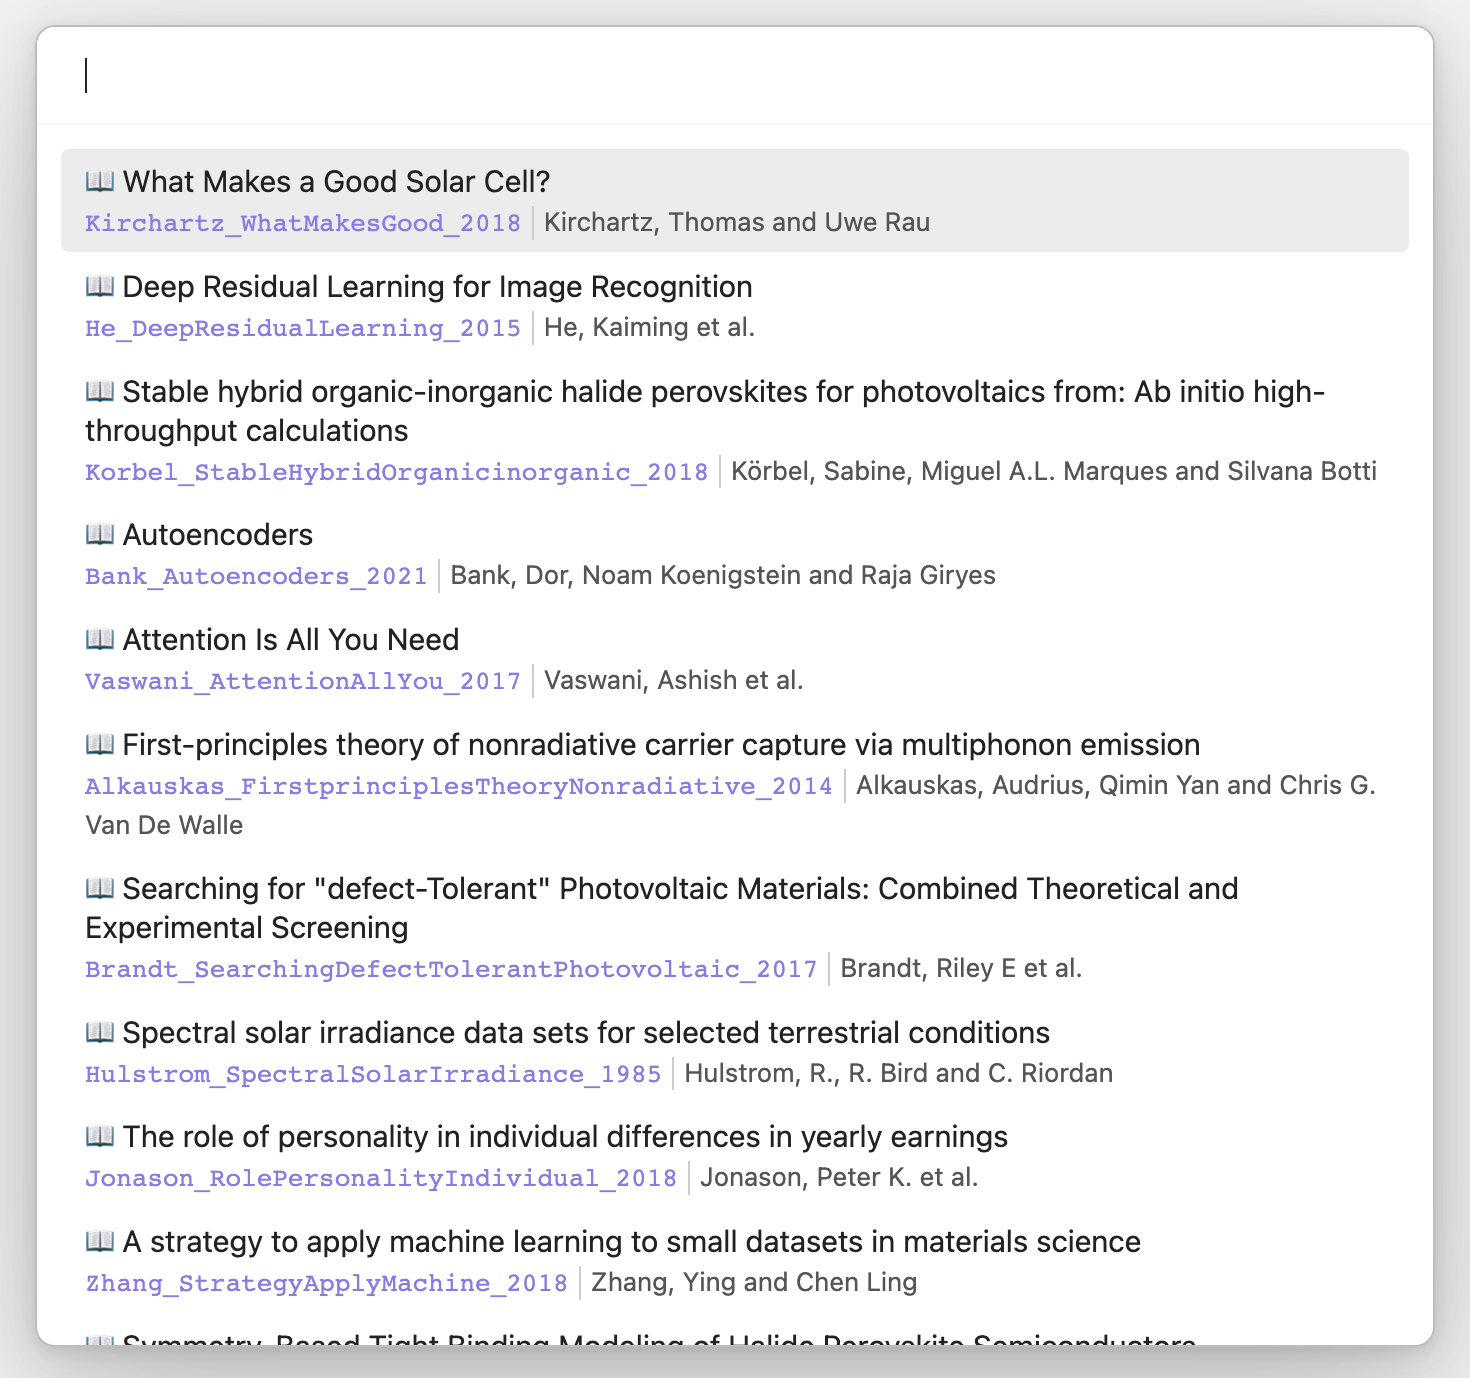
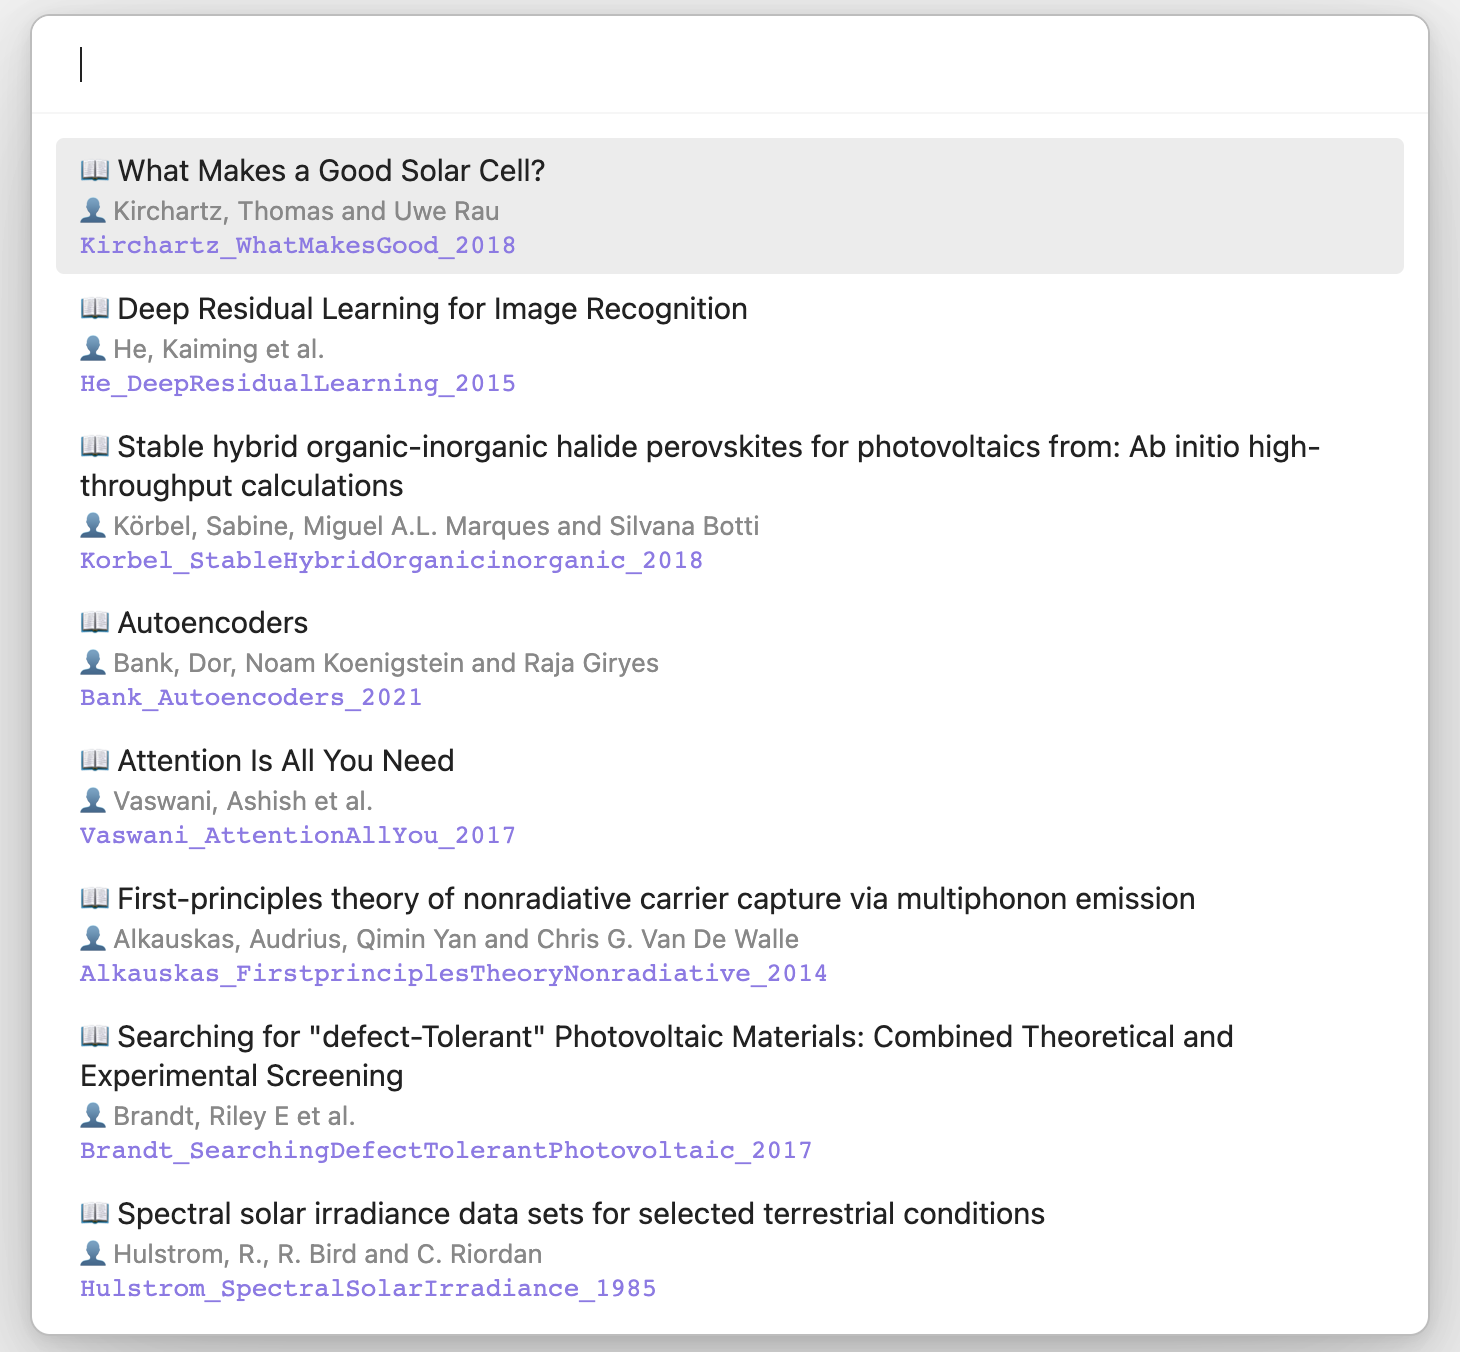
Small changes in the style

Changed region(s): [[0.0, 0.0, 0.9863, 0.9941]]

diff --git a/styles.css b/styles.css
@@ -1,52 +1,34 @@
-.zaModalResults .suggestion-item {
-    height: fit-content;
-    line-height: 1.5rem;
-}
-
+/* Title of the reference */
 .zaTitle {
     display: block;
 }
-
 .zaTitle::before {
-    content: '📖 ';
+    content: "📖 ";
     font-weight: bold;
 }
-
-.zaAuthors {
-    color: #555;
-    font-size: 13px;
+.zaTitle::after {
+    content: " ";
 }
 
+/* Authors of the reference */
+.zaAuthors {
+    color: #888;
+    font-size: 13px;
+}
+.zaAuthors::before {
+    content: '👤 ';
+}
 .zaAuthorsEmpty::after {
     font-style: italic;
-    content: 'Unknown authors';
+    content: "Unknown Authors";
 }
 
+/* Citekey style */
 .zaCitekey {
-    color: #9079E9;
-    font-size: 13px;
-    font-family: monospace;
-    display: inline-block;
-    margin-right: 5px;
-    padding-right: 5px;
-    border-right: 1px solid #ccc;
-}
-
-.theme-dark .zaTitle {
     display: block;
-}
-
-.theme-dark .zaAuthors {
-    color: #aaa;
-    font-size: 13px;
-}
-
-.theme-dark .zaCitekey {
-    color: #9079E9;
+    color: #9079e9;
     font-size: 13px;
     font-family: monospace;
-    display: inline-block;
     margin-right: 5px;
     padding-right: 5px;
-    border-right: 1px solid #aaa;
 }

diff --git a/src/modal.ts b/src/modal.ts
@@ -143,14 +143,15 @@ export class fuzzySelectReference extends FuzzySuggestModal<Reference> {
         const titleEl = container.createEl('span', {
             cls: 'zaTitle',
         });
-        container.createEl('span', { cls: 'zaCitekey', text: entry.citationKey });
-
         const authorsCls = entry.authorKey
             ? 'zaAuthors'
             : 'zaAuthors zaAuthorsEmpty';
         const authorsEl = container.createEl('span', {
             cls: authorsCls,
         });
+        container.createEl('span', { cls: 'zaCitekey', text: entry.citationKey });
+
+
 
         const allMatches = match.match.matches;
 
